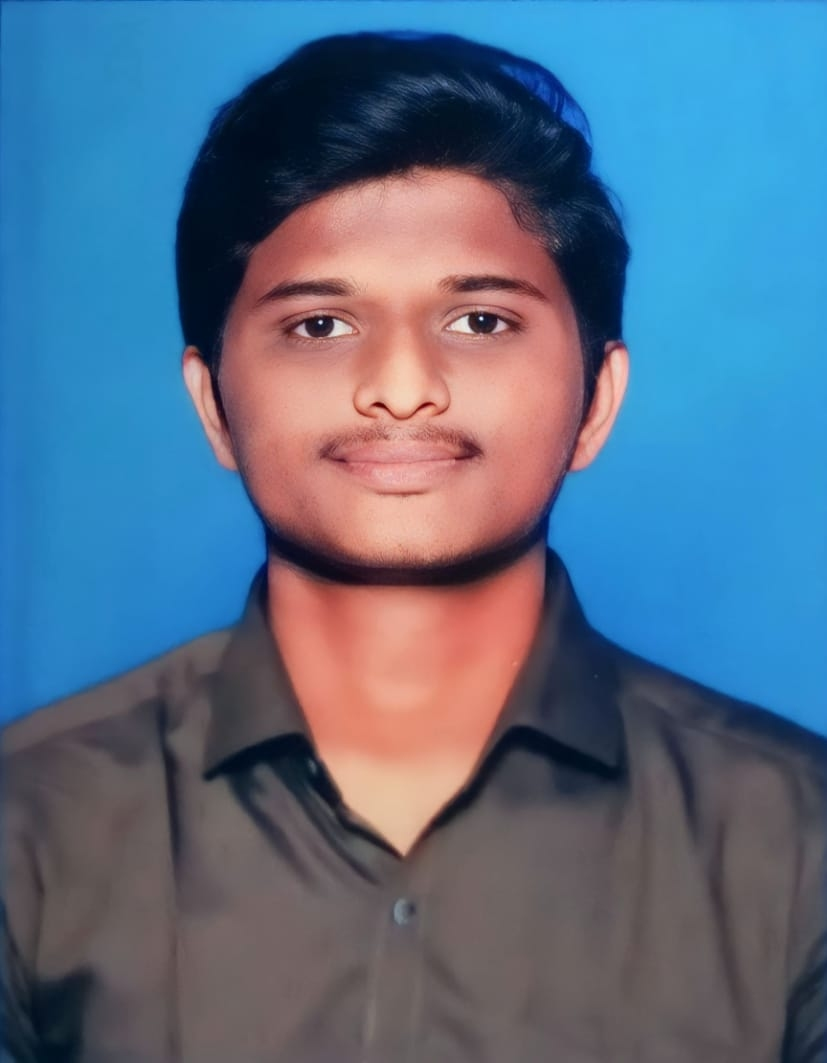
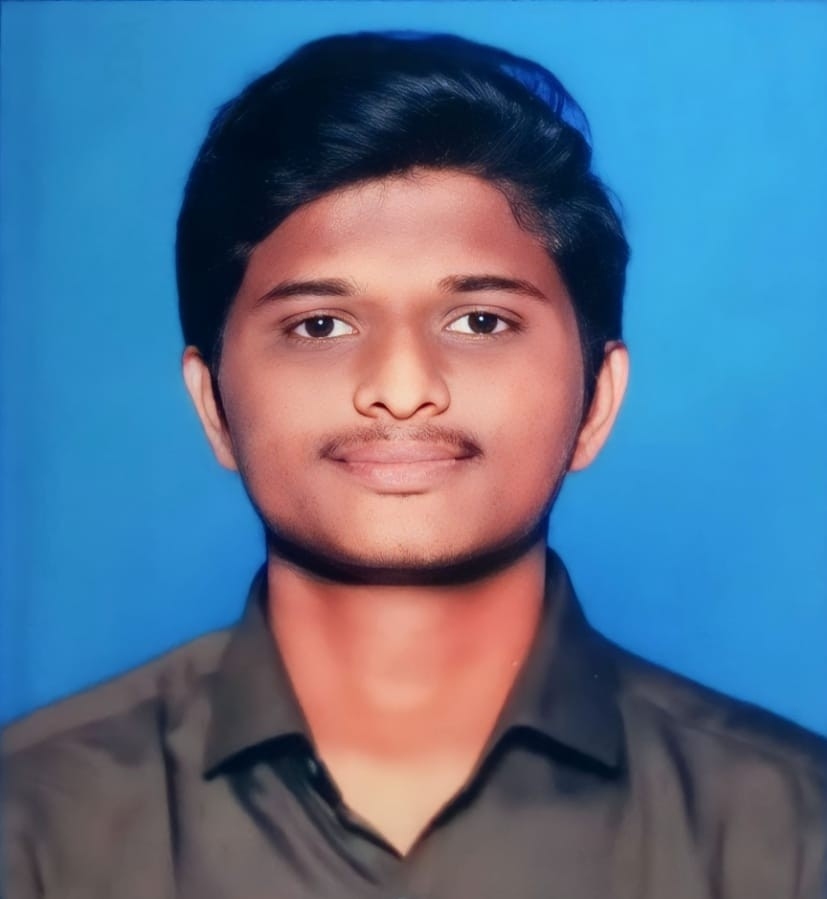
Update: Image url

diff --git a/src/components/About.js b/src/components/About.js
@@ -4,14 +4,14 @@ import { FaUserAlt } from "react-icons/fa";
 import { FiSettings } from 'react-icons/fi';
 
 const skills = [
-  { name: "Java", src: "./images/java.png" },
-  { name: "Python", src: "./images/python.png" },
-  { name: "JavaScript", src: "./images/java-script.png" },
-  { name: "Spring Boot", src: "./images/Spring_Boot.svg" },
-  { name: "React", src: "./images/react.png" },
-  { name: "MySQL", src: "./images/mysql.png" },
-  { name: "AWS", src: "./images/aws.png" },
-  { name: "REST API", src: "./images/api.png" },
+  { name: "Java", src: "/images/java.png" },
+  { name: "Python", src: "/images/python.png" },
+  { name: "JavaScript", src: "/images/java-script.png" },
+  { name: "Spring Boot", src: "/images/Spring_Boot.svg" },
+  { name: "React", src: "/images/react.png" },
+  { name: "MySQL", src: "/images/mysql.png" },
+  { name: "AWS", src: "/images/aws.png" },
+  { name: "REST API", src: "/images/api.png" },
 ];
 
 export default function About() {
@@ -99,7 +99,7 @@ export default function About() {
                 className="flex flex-col items-center justify-center text-center group"
               >
                 <img
-                  src={skill.src}
+                  src={process.env.PUBLIC_URL + skill.src}
                   alt={skill.name}
                   loading="lazy"
                   className="w-16 h-16 md:w-20 md:h-20 object-contain transition-transform duration-300 group-hover:scale-110 drop-shadow-md"

diff --git a/src/components/Certificates.js b/src/components/Certificates.js
@@ -4,8 +4,8 @@ import { FiExternalLink } from 'react-icons/fi';
 import { FaAward } from 'react-icons/fa';
 
 const certificates = [
-  { id: 1, title: "Java Programming Certification", img: "./images/Java-crt.png" },
-  { id: 2, title: "TCS Code Vita Participation", img: "./images/Tcs-crt.png" },
+  { id: 1, title: "Java Programming Certification", img: "/images/Java-crt.png" },
+  { id: 2, title: "TCS Code Vita Participation", img: "/images/Tcs-crt.png" },
   // { id: 3, title: "Cloud Computing Certification", img: "./images/Cloud-crt.jpg" }
 ];
 
@@ -46,7 +46,7 @@ export default function Certificates() {
             onClick={() => setSelected(cert.img)}
           >
             <img 
-              src={cert.img} 
+                src={process.env.PUBLIC_URL + cert.img} 
               alt={cert.title} 
               className="w-full h-48 object-cover" 
             />

diff --git a/src/components/Hero.js b/src/components/Hero.js
@@ -2,6 +2,7 @@ import React, { useState } from "react";
 import { motion } from "framer-motion";
 import "./Hero.css";
 
+
 export default function Hero() {
   const [mousePos, setMousePos] = useState({ x: 0, y: 0 });
 
@@ -118,7 +119,7 @@ export default function Hero() {
           <div className="rounded-full p-2 bg-gradient-to-r from-purple-500 via-pink-500 to-indigo-500">
             <div className="glass rounded-full w-80 h-80 md:w-96 md:h-96 overflow-hidden shadow-lg">
               <img
-                src="./images/Myphoto1.jpg"
+                src={process.env.PUBLIC_URL + "/images/Myphoto.jpg"}
                 alt="HARIHARAN S K"
                 className="w-full h-full object-cover"
               />
